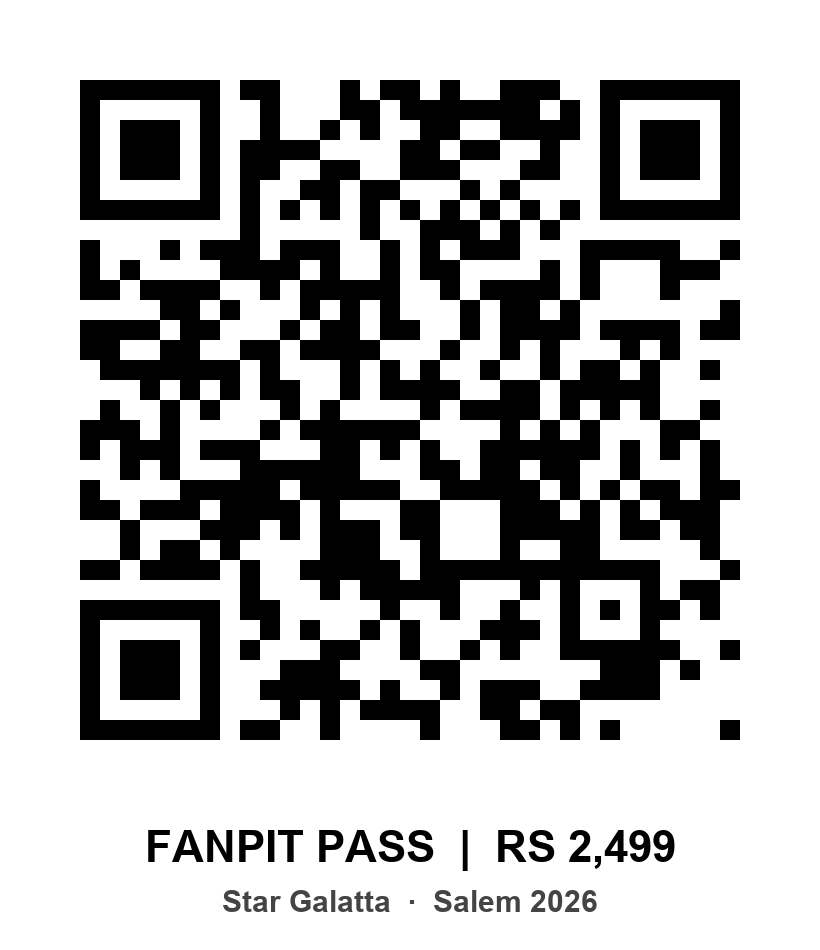
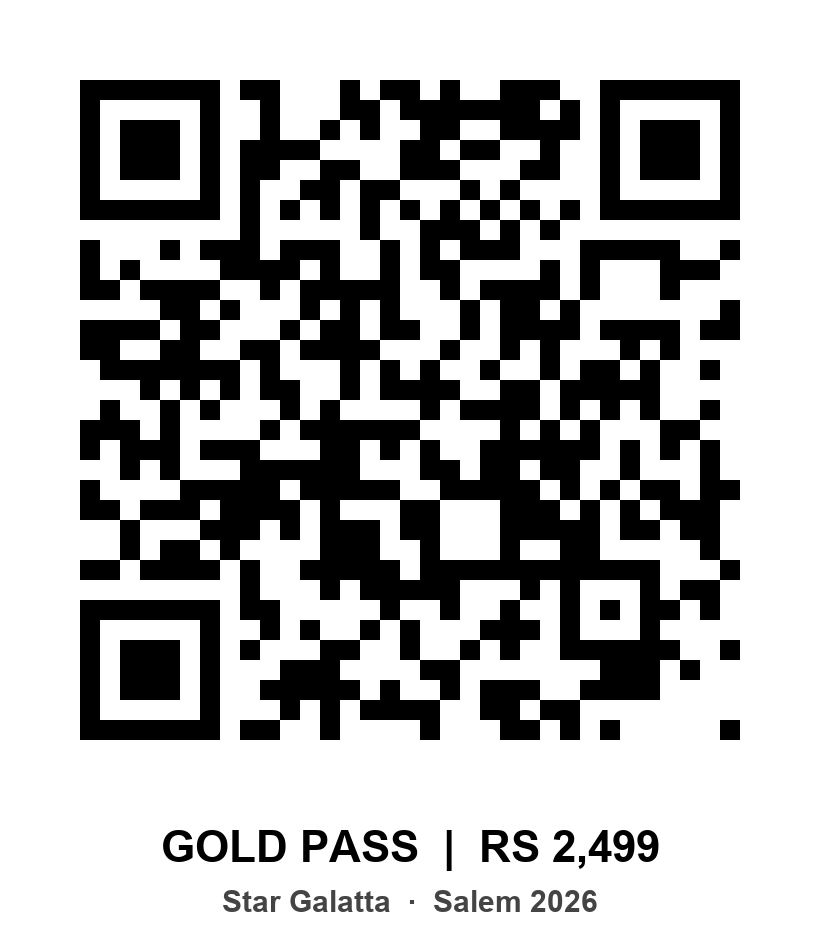
Rename three pass levels per ARI Entertainment, keep QR patterns
Fan Pit -> Gold (Rs 2,499), Gold -> Silver (Rs 1,099), Silver -> Bronze
(Rs 599). Links stay the same since they are inside the QR codes.

The QR lock now covers only the pattern (qr/code/), cut pixel-for-pixel
from the shared cards, so the label under each code can be updated
without changing the code itself.

Changed region(s): [[0.1829, 0.8547, 0.8232, 0.9158]]

diff --git a/docs/star-galatta/fanpit-pass/index.html b/docs/star-galatta/fanpit-pass/index.html
@@ -4,14 +4,14 @@
 <meta charset="utf-8">
 <meta name="viewport" content="width=device-width, initial-scale=1">
 <meta name="robots" content="noindex, nofollow">
-<title>Fanpit Pass | Star Galatta Salem 2026</title>
+<title>Gold Pass | Star Galatta Salem 2026</title>
 <link rel="preconnect" href="https://fonts.googleapis.com">
 <link rel="preconnect" href="https://fonts.gstatic.com" crossorigin>
 <link href="https://fonts.googleapis.com/css2?family=Outfit:wght@300;400;600;800&display=swap" rel="stylesheet">
 <style>
   * { box-sizing: border-box; }
   body { margin: 0; min-height: 100vh; display: flex; flex-direction: column; align-items: center;
-         justify-content: center; gap: 20px; padding: 16px; background: radial-gradient(circle at 50% 0%, #d1491b55 0%, #0b0b0f 62%);
+         justify-content: center; gap: 20px; padding: 16px; background: radial-gradient(circle at 50% 0%, #b8860b55 0%, #0b0b0f 62%);
          color: #f7f2ea; font-family: "Outfit", system-ui, sans-serif; }
   figure { margin: 0; width: min(100%, 960px); border-radius: 18px; overflow: hidden;
            background: #111015; box-shadow: 0 24px 60px rgba(0, 0, 0, .6); }
@@ -20,7 +20,7 @@
   .hint { margin: 0; font-size: 12px; font-weight: 300; color: #8d8579; }
   .details { padding: 22px; }
   .tier { display: inline-block; padding: 6px 12px; border-radius: 999px; font-size: 12px; font-weight: 600;
-          letter-spacing: .18em; background: linear-gradient(90deg, #d1491b, #f2a23a); color: #fff;
+          letter-spacing: .18em; background: linear-gradient(90deg, #b8860b, #f5d061); color: #fff;
           text-shadow: 0 1px 2px rgba(0, 0, 0, .35); }
   h1 { margin: 12px 0 6px; font-size: clamp(26px, 7vw, 38px); font-weight: 800; line-height: 1.05;
        letter-spacing: -.02em; }
@@ -36,12 +36,12 @@
 </head>
 <body>
 <figure class="pass">
-  <a href="../img/fanpit-pass.jpg"><img src="../img/fanpit-pass.jpg" alt="Star Galatta Salem 2026 - Fanpit Pass, Rs 2,499"></a>
+  <a href="../img/fanpit-pass.jpg"><img src="../img/fanpit-pass.jpg" alt="Star Galatta Salem 2026 - Gold Pass, Rs 2,499"></a>
 </figure>
 <p class="hint">Tap the pass to open it full size</p>
 <figure>
   <div class="details">
-    <span class="tier">FANPIT PASS &middot; &#8377;2,499</span>
+    <span class="tier">GOLD PASS &middot; &#8377;2,499</span>
     <h1>Star Galatta Salem 2026</h1>
     <p class="info">Sat, Oct 31 &middot; 5 &ndash; 10 PM &middot; Vysya College, Salem</p>
     <div class="foot">

diff --git a/docs/star-galatta/silver-pass/index.html b/docs/star-galatta/silver-pass/index.html
@@ -4,14 +4,14 @@
 <meta charset="utf-8">
 <meta name="viewport" content="width=device-width, initial-scale=1">
 <meta name="robots" content="noindex, nofollow">
-<title>Silver Pass | Star Galatta Salem 2026</title>
+<title>Bronze Pass | Star Galatta Salem 2026</title>
 <link rel="preconnect" href="https://fonts.googleapis.com">
 <link rel="preconnect" href="https://fonts.gstatic.com" crossorigin>
 <link href="https://fonts.googleapis.com/css2?family=Outfit:wght@300;400;600;800&display=swap" rel="stylesheet">
 <style>
   * { box-sizing: border-box; }
   body { margin: 0; min-height: 100vh; display: flex; flex-direction: column; align-items: center;
-         justify-content: center; gap: 20px; padding: 16px; background: radial-gradient(circle at 50% 0%, #1c4fd855 0%, #0b0b0f 62%);
+         justify-content: center; gap: 20px; padding: 16px; background: radial-gradient(circle at 50% 0%, #7a3e1755 0%, #0b0b0f 62%);
          color: #f7f2ea; font-family: "Outfit", system-ui, sans-serif; }
   figure { margin: 0; width: min(100%, 960px); border-radius: 18px; overflow: hidden;
            background: #111015; box-shadow: 0 24px 60px rgba(0, 0, 0, .6); }
@@ -20,7 +20,7 @@
   .hint { margin: 0; font-size: 12px; font-weight: 300; color: #8d8579; }
   .details { padding: 22px; }
   .tier { display: inline-block; padding: 6px 12px; border-radius: 999px; font-size: 12px; font-weight: 600;
-          letter-spacing: .18em; background: linear-gradient(90deg, #1c4fd8, #9fb3c8); color: #fff;
+          letter-spacing: .18em; background: linear-gradient(90deg, #7a3e17, #cd7f32); color: #fff;
           text-shadow: 0 1px 2px rgba(0, 0, 0, .35); }
   h1 { margin: 12px 0 6px; font-size: clamp(26px, 7vw, 38px); font-weight: 800; line-height: 1.05;
        letter-spacing: -.02em; }
@@ -36,12 +36,12 @@
 </head>
 <body>
 <figure class="pass">
-  <a href="../img/silver-pass.jpg"><img src="../img/silver-pass.jpg" alt="Star Galatta Salem 2026 - Silver Pass, Rs 599"></a>
+  <a href="../img/silver-pass.jpg"><img src="../img/silver-pass.jpg" alt="Star Galatta Salem 2026 - Bronze Pass, Rs 599"></a>
 </figure>
 <p class="hint">Tap the pass to open it full size</p>
 <figure>
   <div class="details">
-    <span class="tier">SILVER PASS &middot; &#8377;599</span>
+    <span class="tier">BRONZE PASS &middot; &#8377;599</span>
     <h1>Star Galatta Salem 2026</h1>
     <p class="info">Sat, Oct 31 &middot; 5 &ndash; 10 PM &middot; Vysya College, Salem</p>
     <div class="foot">

diff --git a/docs/star-galatta/gold-pass/index.html b/docs/star-galatta/gold-pass/index.html
@@ -4,14 +4,14 @@
 <meta charset="utf-8">
 <meta name="viewport" content="width=device-width, initial-scale=1">
 <meta name="robots" content="noindex, nofollow">
-<title>Gold Pass | Star Galatta Salem 2026</title>
+<title>Silver Pass | Star Galatta Salem 2026</title>
 <link rel="preconnect" href="https://fonts.googleapis.com">
 <link rel="preconnect" href="https://fonts.gstatic.com" crossorigin>
 <link href="https://fonts.googleapis.com/css2?family=Outfit:wght@300;400;600;800&display=swap" rel="stylesheet">
 <style>
   * { box-sizing: border-box; }
   body { margin: 0; min-height: 100vh; display: flex; flex-direction: column; align-items: center;
-         justify-content: center; gap: 20px; padding: 16px; background: radial-gradient(circle at 50% 0%, #b8860b55 0%, #0b0b0f 62%);
+         justify-content: center; gap: 20px; padding: 16px; background: radial-gradient(circle at 50% 0%, #5f6b7855 0%, #0b0b0f 62%);
          color: #f7f2ea; font-family: "Outfit", system-ui, sans-serif; }
   figure { margin: 0; width: min(100%, 960px); border-radius: 18px; overflow: hidden;
            background: #111015; box-shadow: 0 24px 60px rgba(0, 0, 0, .6); }
@@ -20,7 +20,7 @@
   .hint { margin: 0; font-size: 12px; font-weight: 300; color: #8d8579; }
   .details { padding: 22px; }
   .tier { display: inline-block; padding: 6px 12px; border-radius: 999px; font-size: 12px; font-weight: 600;
-          letter-spacing: .18em; background: linear-gradient(90deg, #b8860b, #f5d061); color: #fff;
+          letter-spacing: .18em; background: linear-gradient(90deg, #5f6b78, #c9d3dd); color: #fff;
           text-shadow: 0 1px 2px rgba(0, 0, 0, .35); }
   h1 { margin: 12px 0 6px; font-size: clamp(26px, 7vw, 38px); font-weight: 800; line-height: 1.05;
        letter-spacing: -.02em; }
@@ -36,12 +36,12 @@
 </head>
 <body>
 <figure class="pass">
-  <a href="../img/gold-pass.jpg"><img src="../img/gold-pass.jpg" alt="Star Galatta Salem 2026 - Gold Pass, Rs 1,099"></a>
+  <a href="../img/gold-pass.jpg"><img src="../img/gold-pass.jpg" alt="Star Galatta Salem 2026 - Silver Pass, Rs 1,099"></a>
 </figure>
 <p class="hint">Tap the pass to open it full size</p>
 <figure>
   <div class="details">
-    <span class="tier">GOLD PASS &middot; &#8377;1,099</span>
+    <span class="tier">SILVER PASS &middot; &#8377;1,099</span>
     <h1>Star Galatta Salem 2026</h1>
     <p class="info">Sat, Oct 31 &middot; 5 &ndash; 10 PM &middot; Vysya College, Salem</p>
     <div class="foot">

diff --git a/scripts/check_qr_links.py b/scripts/check_qr_links.py
@@ -2,11 +2,12 @@
 
 The 5 paths below are printed on QR codes and must never change. This list is kept
 separate from make_qr.py on purpose, so a change to the generator can't silently
-change what is protected. QR_LOCK freezes each QR image itself: if a file in qr/ is
-redrawn, its fingerprint changes and this check fails.
+change what is protected. QR_LOCK freezes each QR pattern itself (qr/code/, the code
+without its label): if one is redrawn, its fingerprint changes and this check fails.
+The label under the code (pass name, price) is not locked, so it can be updated.
 
 Usage:
-  python scripts/check_qr_links.py                                  # check docs/ and qr/ files
+  python scripts/check_qr_links.py                                  # check docs/ and qr/code/ files
   python scripts/check_qr_links.py --live https://events.iqtechmax.com  # check the live site
 """
 import hashlib
@@ -22,18 +23,19 @@ QR_PATHS = [
     "star-galatta/silver-pass",
 ]
 
-# SHA-256 of each frozen QR image (each encodes https://events.iqtechmax.com/<path>).
+# SHA-256 of each frozen QR pattern (each encodes https://events.iqtechmax.com/<path>).
+# Cut pixel-for-pixel from the QR cards first shared on Oct 12, 2026.
 QR_LOCK = {
[10 lines of base64/hex data omitted]
 }
 
 ROOT = os.path.join(os.path.dirname(os.path.abspath(__file__)), "..")
 DOCS = os.path.join(ROOT, "docs")
-QR_DIR = os.path.join(ROOT, "qr")
+CODE_DIR = os.path.join(ROOT, "qr", "code")
 
 
 def check_files():
@@ -47,13 +49,13 @@ def check_files():
 def check_qr_images():
     changed = []
     for name, digest in QR_LOCK.items():
-        path = os.path.join(QR_DIR, name)
+        path = os.path.join(CODE_DIR, name)
         if not os.path.isfile(path):
             changed.append(name)
-            print(f"MISSING  qr/{name}")
+            print(f"MISSING  qr/code/{name}")
         elif hashlib.sha256(open(path, "rb").read()).hexdigest() != digest:
             changed.append(name)
-            print(f"CHANGED  qr/{name}  (restore it: git checkout -- qr/{name})")
+            print(f"CHANGED  qr/code/{name}  (restore it: git checkout -- qr/code/{name})")
     return changed
 
 
@@ -82,7 +84,7 @@ if __name__ == "__main__":
         if missing:
             print(f"{len(missing)} of {len(QR_PATHS)} printed QR links are broken in docs/.")
         if changed:
-            print(f"{len(changed)} of {len(QR_LOCK)} frozen QR images are missing or changed in qr/.")
+            print(f"{len(changed)} of {len(QR_LOCK)} frozen QR patterns are missing or changed in qr/code/.")
         if missing or changed:
             sys.exit(1)
-        print(f"All {len(QR_PATHS)} printed QR links OK in docs/, all {len(QR_LOCK)} QR images unchanged.")
+        print(f"All {len(QR_PATHS)} printed QR links OK in docs/, all {len(QR_LOCK)} QR patterns unchanged.")

diff --git a/make_qr.py b/make_qr.py
@@ -12,6 +12,7 @@ BASE_URL = "https://events.iqtechmax.com/star-galatta/"
 SITE = "docs"
 EVENT_DIR = f"{SITE}/star-galatta"
 QR_DIR = "qr"
+CODE_DIR = f"{QR_DIR}/code"  # the frozen QR patterns, without the label
 FONT = "C:/Windows/Fonts/arialbd.ttf"
 
 PAGE = """<!doctype html>
@@ -102,18 +103,21 @@ def build_site():
 
 
 def build_qr():
-    os.makedirs(QR_DIR, exist_ok=True)
+    os.makedirs(CODE_DIR, exist_ok=True)
     big, small = ImageFont.truetype(FONT, 44), ImageFont.truetype(FONT, 30)
     for slug, name, price, _, _ in TIERS:
         out = f"{QR_DIR}/qr_{slug}.png"
-        # The QR codes are frozen: never redraw one that exists (see scripts/check_qr_links.py).
-        if os.path.exists(out):
-            print(f"{out} kept (frozen)")
-            continue
-        qr = qrcode.QRCode(error_correction=qrcode.constants.ERROR_CORRECT_M, box_size=20, border=4)
-        url = BASE_URL + slug
-        qr.add_data(url)
-        code = qr.make_image(fill_color="black", back_color="white").convert("RGB")
+        pattern = f"{CODE_DIR}/{slug}.png"
+        # The QR patterns are frozen: an existing one is reused as-is, never redrawn
+        # (see scripts/check_qr_links.py). Only the label under it is drawn fresh.
+        if os.path.exists(pattern):
+            code = Image.open(pattern).convert("RGB")
+        else:
+            qr = qrcode.QRCode(error_correction=qrcode.constants.ERROR_CORRECT_M, box_size=20, border=4)
+            qr.add_data(BASE_URL + slug)
+            code = qr.make_image(fill_color="black", back_color="white").convert("RGB")
+            code.save(pattern)
+            print(f"{pattern} NEW pattern -> {BASE_URL + slug}")
 
         card = Image.new("RGB", (code.width, code.height + 130), "white")
         card.paste(code, (0, 0))
@@ -122,7 +126,7 @@ def build_qr():
         draw.text((cx, code.height + 10), f"{name.upper()}  |  RS {price}", font=big, fill="black", anchor="mt")
         draw.text((cx, code.height + 70), "Star Galatta  ·  Salem 2026", font=small, fill="#444444", anchor="mt")
         card.save(out)
-        print(f"{out} -> {url}")
+        print(f"{out} ({name}, Rs {price}) -> {BASE_URL + slug}")
 
 
 if __name__ == "__main__":

diff --git a/prepare_passes.py b/prepare_passes.py
@@ -5,13 +5,14 @@ import os
 from PIL import Image, ImageCms
 
 # (slug, pass name, price, original ticket file, badge colours)
-# The slug is printed inside the QR code - never change it once the codes are out.
+# The slug is inside the printed QR code - never change it. The name and price can change freely:
+# the client renamed Fanpit -> Gold, Gold -> Silver, Silver -> Bronze, so those slugs keep the old names.
 TIERS = [
     ("mip-elite-pass", "MIP Elite Pass", "25,000", "MIP elite ticket.jpg.jpeg", ("#c4122f", "#f2b632")),
     ("vvip-pass", "VVIP Pass", "10,000", "VVIP Ticket.jpg.jpeg", ("#0f7a3c", "#e3b53b")),
-    ("fanpit-pass", "Fanpit Pass", "2,499", "Fanpit Ticket.jpg.jpeg", ("#d1491b", "#f2a23a")),
-    ("gold-pass", "Gold Pass", "1,099", "Gold Ticket.jpg.jpeg", ("#b8860b", "#f5d061")),
-    ("silver-pass", "Silver Pass", "599", "Silver ticket.jpg.jpeg", ("#1c4fd8", "#9fb3c8")),
+    ("fanpit-pass", "Gold Pass", "2,499", "Fanpit Ticket.jpg.jpeg", ("#b8860b", "#f5d061")),
+    ("gold-pass", "Silver Pass", "1,099", "Gold Ticket.jpg.jpeg", ("#5f6b78", "#c9d3dd")),
+    ("silver-pass", "Bronze Pass", "599", "Silver ticket.jpg.jpeg", ("#7a3e17", "#cd7f32")),
 ]
 
 PASS_DIR = "passes"

diff --git a/README.md b/README.md
@@ -8,25 +8,31 @@ The site is the static `docs/` folder, served at `https://events.iqtechmax.com/s
 The pages are marked `noindex` and there is no index page linking them, so a pass page is reached
 by scanning its QR code (the links are not secret: anyone with the URL can open it).
 
-**The 5 QR codes are frozen.** The images in `qr/` are final and their pattern never changes:
-`make_qr.py` never redraws a QR image that exists, and `scripts/check_qr_links.py` holds the
-fingerprint (SHA-256) of each image, so any push that changes one fails and is not deployed.
-Changing a ticket design, price text or the page layout only changes the page, never the QR code.
+**The 5 QR patterns are frozen.** Each pattern is stored once in `qr/code/` and never redrawn:
+`make_qr.py` builds the printable card in `qr/` by pasting that exact pattern and drawing the label
+(pass name, price) under it, and `scripts/check_qr_links.py` holds the fingerprint (SHA-256) of each
+pattern, so any push that changes one fails and is not deployed. Renaming a pass, changing a price,
+a ticket design or the page layout changes the page and the label, never the QR pattern.
 
 | Level | Price | QR image | QR link (fixed) |
 |---|---|---|---|
 | MIP Elite Pass | Rs 25,000 | `qr/qr_mip-elite-pass.png` | https://events.iqtechmax.com/star-galatta/mip-elite-pass |
 | VVIP Pass | Rs 10,000 | `qr/qr_vvip-pass.png` | https://events.iqtechmax.com/star-galatta/vvip-pass |
-| Fanpit Pass | Rs 2,499 | `qr/qr_fanpit-pass.png` | https://events.iqtechmax.com/star-galatta/fanpit-pass |
-| Gold Pass | Rs 1,099 | `qr/qr_gold-pass.png` | https://events.iqtechmax.com/star-galatta/gold-pass |
-| Silver Pass | Rs 599 | `qr/qr_silver-pass.png` | https://events.iqtechmax.com/star-galatta/silver-pass |
+| Gold Pass | Rs 2,499 | `qr/qr_fanpit-pass.png` | https://events.iqtechmax.com/star-galatta/fanpit-pass |
+| Silver Pass | Rs 1,099 | `qr/qr_gold-pass.png` | https://events.iqtechmax.com/star-galatta/gold-pass |
+| Bronze Pass | Rs 599 | `qr/qr_silver-pass.png` | https://events.iqtechmax.com/star-galatta/silver-pass |
+
+On Oct 13, 2026 ARI Entertainment renamed three levels (Fan Pit → Gold, Gold → Silver,
+Silver → Bronze, prices unchanged). The links keep the old names on purpose, since they are
+inside the QR codes; only the names shown on the pages and labels changed (`TIERS` in
+`prepare_passes.py`).
 
 ## How updates work
 
 1. Edit the content (a ticket design → re-run `prepare_passes.py`; the page template in `make_qr.py`),
    then run `python make_qr.py` to rebuild `docs/`.
 2. Commit and push to `main`.
-3. GitHub Actions checks that all 5 printed QR links still exist and all 5 QR images are
+3. GitHub Actions checks that all 5 printed QR links still exist and all 5 QR patterns are
    unchanged, then updates the server automatically. Progress is on the repo's **Actions** tab.
 
 **Never rename or move these 5 folders in `docs/`:**
@@ -75,14 +81,15 @@ A preview copy is also on GitHub Pages (from `main`, folder `/docs`), opened by 
 
 ## Layout
 
-- `qr/` – the 5 printable QR images (frozen)
+- `qr/` – the 5 printable QR cards (frozen pattern + current label)
+- `qr/code/` – the 5 frozen QR patterns (never edit)
 - `passes/` – web-ready sRGB pass images (2200 px wide)
 - `docs/` – the published site (generated)
 - `prepare_passes.py` – the list of 5 levels; converts the designer's CMYK ticket files
   (`* Ticket.jpg.jpeg`, ~5 MB each, not committed; place them in the project root) into `passes/`
-- `make_qr.py` – builds `docs/`; draws a QR image only if it is missing (`BASE_URL` is the frozen link)
+- `make_qr.py` – builds `docs/` and the QR cards from the frozen patterns (`BASE_URL` is the frozen link)
 - `verify_qr.py` – scans each QR and checks the live page shows that level's pass and nothing else
-- `scripts/check_qr_links.py` – fails if any of the 5 printed QR paths is missing or any QR image changed
+- `scripts/check_qr_links.py` – fails if any of the 5 printed QR paths is missing or any QR pattern changed
   (`--live URL` checks the site)
 - `.github/workflows/deploy.yml` – on every push to `main`: QR link check → deploy to server → live check
 
